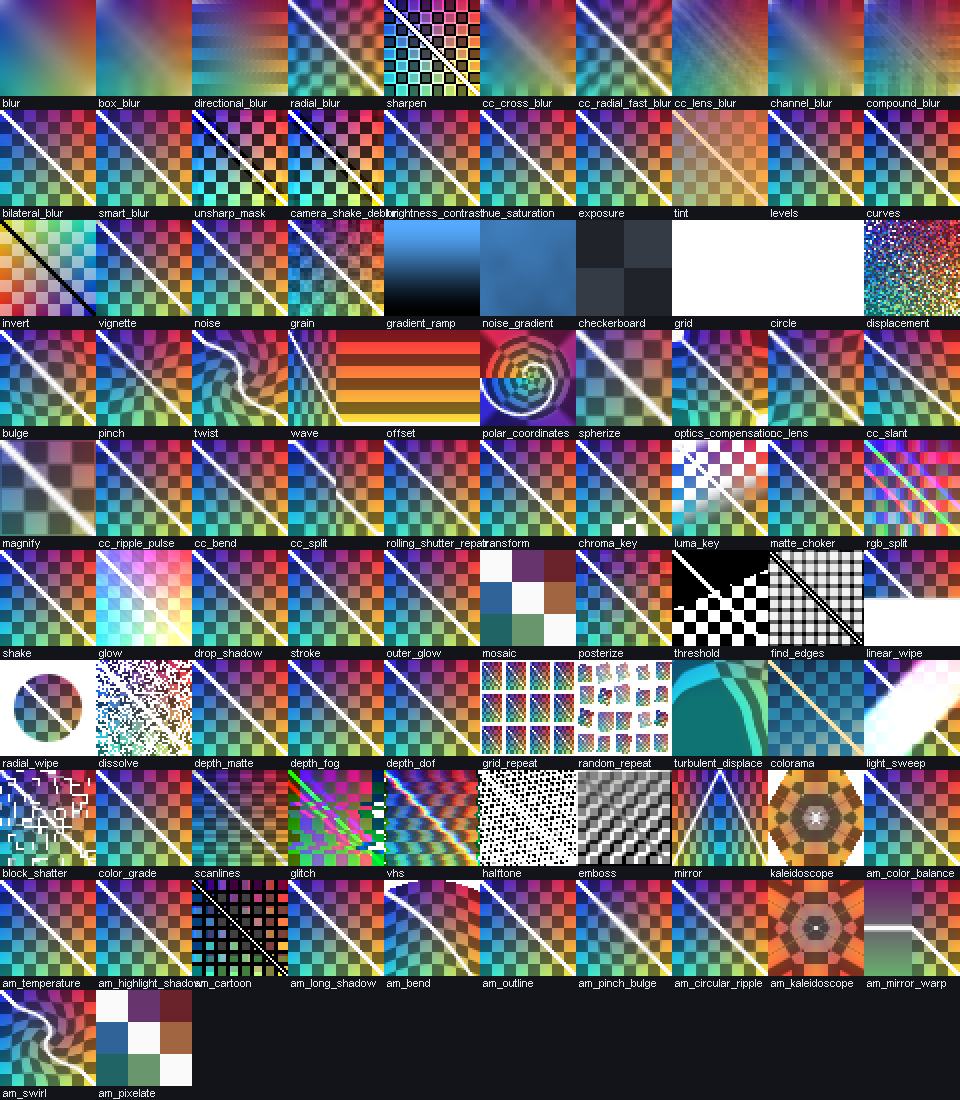
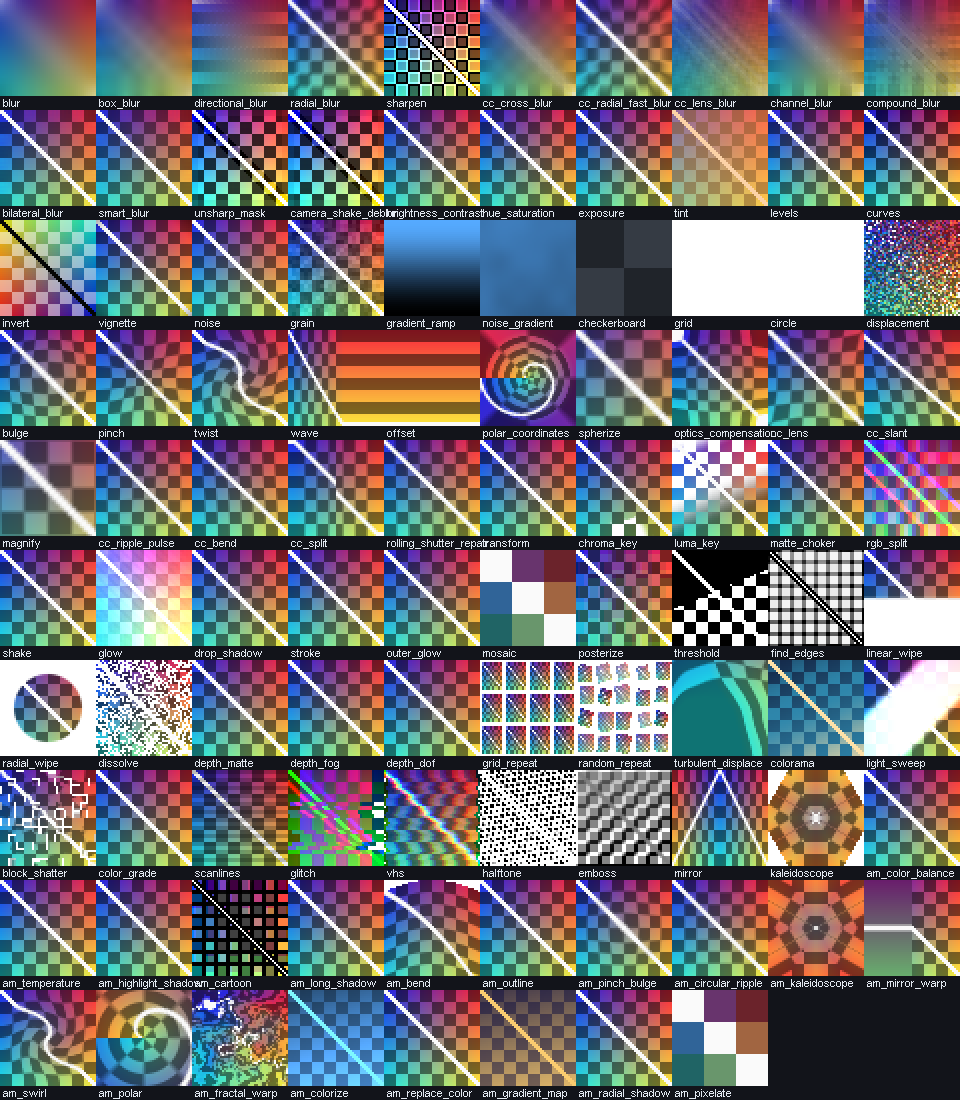
feat(0.27): third effect batch - polar, fractal warp, colour tools
- 极坐标 (polar unwrap/fold with repeat/scale), 分形扭曲 (two-channel fbm displacement in layer
  pixels), 色彩化 (luminance-preserving tint), 替换颜色 (tolerance + softness + replacement),
  渐变映射 (two-colour luminance map), 径向阴影 (alpha projected away from a light point).
- AmEffectRenderer now injects noise/fbm/hash2/rot helpers, so noise-driven definitions need no
  extra Java code.
- Every new effect declares its zero value (amount/strength/size) and is covered by
  ShaderCompileTest (real GL link) and AmEffectLibraryTest (neutrality).
- EffectNeutralTest extended for the batch; full suite 317 tests green.
- Release bbsae-0.27.jar (SHA-256 1FC1D37A04467A8711BC253AE1E321C22A3B404C5AFDCE2889861606BEB9A181).

Changed region(s): [[0.0938, 0.8964, 0.8125, 1.0]]

diff --git a/src/main/java/dev/bbsae/comp/AmEffectLibrary.java b/src/main/java/dev/bbsae/comp/AmEffectLibrary.java
@@ -289,6 +289,111 @@ public final class AmEffectLibrary
             .p("center_x", "中心 X", 0F, 1F, 0.5F, 0.01F)
             .p("center_y", "中心 Y", 0F, 1F, 0.5F, 0.01F));
 
+        add(new AmEffectDef("am_polar", "极坐标", "AM · 变形", """
+            void main()
+            {
+                vec2 center = vec2(u_center_x, u_center_y);
+                vec2 p = (vUv - center) * 2.0;
+                float radius = length(p);
+                float angle = atan(p.y, p.x) + radians(u_angle);
+                vec2 polar = vec2(angle / 6.2831853 * max(u_repeat, 1.0) + 0.5,
+                                  radius * max(u_scale, 0.01));
+                polar = fract(polar);
+                vec2 warped = mix(vUv, polar, clamp(u_amount, 0.0, 1.0));
+                vec4 c = texture(Source, clamp(warped, 0.0, 1.0));
+                fragColor = vec4(c.rgb, c.a);
+            }
+            """, 0.5F, "amount")
+            .p("amount", "强度", 0F, 1F, 1F, 0.01F)
+            .p("angle", "旋转", -180F, 180F, 0F, 1F)
+            .p("scale", "半径缩放", 0.05F, 2F, 0.5F, 0.01F)
+            .p("repeat", "角向重复", 1F, 8F, 1F, 1F)
+            .p("center_x", "中心 X", 0F, 1F, 0.5F, 0.01F)
+            .p("center_y", "中心 Y", 0F, 1F, 0.5F, 0.01F));
+
+        add(new AmEffectDef("am_fractal_warp", "分形扭曲", "AM · 变形", """
+            void main()
+            {
+                vec2 warped = vUv;
+                vec2 noiseUv = vUv * max(u_scale, 0.01) + vec2(u_seed * 7.13);
+                float n1 = fbm(noiseUv, 4) - 0.5;
+                float n2 = fbm(noiseUv + 13.7, 4) - 0.5;
+                warped += vec2(n1, n2) * (u_amount / max(Size, vec2(1.0)));
+                vec4 c = texture(Source, clamp(warped, 0.0, 1.0));
+                fragColor = vec4(c.rgb, c.a);
+            }
+            """, 0.5F, "amount")
+            .p("amount", "强度（像素）", 0F, 400F, 48F, 1F)
+            .p("scale", "细节", 0.5F, 40F, 6F, 0.1F)
+            .p("seed", "随机种子", 0F, 9999F, 0F, 1F));
+
+        add(new AmEffectDef("am_colorize", "色彩化", "AM · 调色", """
+            void main()
+            {
+                vec4 c = texture(Source, vUv);
+                float y = luma(c.rgb);
+                vec3 tinted = u_color.rgb * (0.25 + y * 1.5);
+                fragColor = vec4(clamp(mix(c.rgb, tinted, clamp(u_strength, 0.0, 1.0)), 0.0, 1.0), c.a);
+            }
+            """, 0F, "strength")
+            .p("strength", "强度", 0F, 1F, 1F, 0.01F)
+            .c("color", "颜色", 0xFF4A90D9));
+
+        add(new AmEffectDef("am_replace_color", "替换颜色", "AM · 调色", """
+            void main()
+            {
+                vec4 c = texture(Source, vUv);
+                float distanceToTarget = length(c.rgb - u_target.rgb);
+                float hit = 1.0 - smoothstep(u_tolerance, u_tolerance + max(u_softness, 0.001), distanceToTarget);
+                vec3 rgb = mix(c.rgb, u_replacement.rgb, hit * clamp(u_strength, 0.0, 1.0));
+                fragColor = vec4(clamp(rgb, 0.0, 1.0), c.a);
+            }
+            """, 0F, "strength")
+            .p("tolerance", "容差", 0F, 1F, 0.15F, 0.01F)
+            .p("softness", "柔和度", 0.001F, 0.5F, 0.08F, 0.001F)
+            .p("strength", "强度", 0F, 1F, 1F, 0.01F)
+            .c("target", "目标颜色", 0xFF00FF00)
+            .c("replacement", "替换颜色", 0xFFFF8800));
+
+        add(new AmEffectDef("am_gradient_map", "渐变映射", "AM · 调色", """
+            void main()
+            {
+                vec4 c = texture(Source, vUv);
+                float y = clamp(luma(c.rgb), 0.0, 1.0);
+                vec3 mapped = mix(u_shadow.rgb, u_highlight.rgb, y);
+                vec3 rgb = mix(c.rgb, mapped, clamp(u_amount, 0.0, 1.0));
+                fragColor = vec4(clamp(rgb, 0.0, 1.0), c.a);
+            }
+            """, 0F, "amount")
+            .p("amount", "强度", 0F, 1F, 1F, 0.01F)
+            .c("shadow", "阴影颜色", 0xFF101040)
+            .c("highlight", "高光颜色", 0xFFFFD070));
+
+        add(new AmEffectDef("am_radial_shadow", "径向阴影", "AM · 风格化", """
+            void main()
+            {
+                vec4 c = texture(Source, vUv);
+                vec2 light = vec2(u_light_x, u_light_y);
+                vec2 toPixel = vUv - light;
+                float dist = length(toPixel);
+                vec2 direction = dist > 0.0001 ? toPixel / dist : vec2(0.0);
+                float size = u_size / max(Size.x, Size.y);
+                vec2 shadowUv = clamp(vUv + direction * size, 0.0, 1.0);
+                vec4 shadowSample = texture(Source, shadowUv);
+                float falloff = mix(1.0, clamp(1.0 - dist, 0.0, 1.0), clamp(u_fade, 0.0, 1.0));
+                float alpha = shadowSample.a * clamp(u_alpha, 0.0, 1.0) * falloff;
+                vec3 rgb = mix(u_color.rgb, c.rgb, c.a);
+                float outA = c.a + alpha * (1.0 - c.a);
+                fragColor = vec4(clamp(rgb, 0.0, 1.0), clamp(outA, 0.0, 1.0));
+            }
+            """, 0.5F, "size")
+            .p("size", "距离", 0F, 300F, 30F, 1F)
+            .p("alpha", "不透明度", 0F, 1F, 0.6F, 0.01F)
+            .p("fade", "渐隐", 0F, 1F, 0.5F, 0.01F)
+            .p("light_x", "光源 X", 0F, 1F, 0.2F, 0.01F)
+            .p("light_y", "光源 Y", 0F, 1F, 0.2F, 0.01F)
+            .c("color", "阴影颜色", 0xFF000000));
+
         add(new AmEffectDef("am_pixelate", "像素化", "AM · 变形", """
             void main()
             {

diff --git a/src/main/java/dev/bbsae/client/render/AmEffectRenderer.java b/src/main/java/dev/bbsae/client/render/AmEffectRenderer.java
@@ -160,6 +160,51 @@ public final class AmEffectRenderer
                 return fract(sin(dot(p, vec2(127.1, 311.7))) * 43758.5453);
             }
 
+            vec2 hash2(vec2 p)
+            {
+                p = vec2(dot(p, vec2(127.1, 311.7)), dot(p, vec2(269.5, 183.3)));
+
+                return fract(sin(p) * 43758.5453);
+            }
+
+            float noise(vec2 p)
+            {
+                vec2 i = floor(p);
+                vec2 f = fract(p);
+                f = f * f * (3.0 - 2.0 * f);
+
+                return mix(mix(hash(i), hash(i + vec2(1.0, 0.0)), f.x),
+                           mix(hash(i + vec2(0.0, 1.0)), hash(i + vec2(1.0, 1.0)), f.x), f.y);
+            }
+
+            float fbm(vec2 p, int octaves)
+            {
+                float value = 0.0;
+                float amplitude = 0.5;
+
+                for (int i = 0; i < 6; i++)
+                {
+                    if (i >= octaves)
+                    {
+                        break;
+                    }
+
+                    value += noise(p) * amplitude;
+                    p *= 2.03;
+                    amplitude *= 0.5;
+                }
+
+                return value;
+            }
+
+            mat2 rot(float a)
+            {
+                float s = sin(a);
+                float c = cos(a);
+
+                return mat2(c, s, -s, c);
+            }
+
             vec2 layerUv(vec2 uv)
             {
                 return vec2(dot(LayerU.xy, uv) + LayerU.z, dot(LayerV.xy, uv) + LayerV.z);

diff --git a/src/test/java/dev/bbsae/comp/AmEffectLibraryTest.java b/src/test/java/dev/bbsae/comp/AmEffectLibraryTest.java
@@ -37,7 +37,7 @@ public class AmEffectLibraryTest
             assertTrue(definition.body.contains("fragColor"), "body writes no colour: " + definition.id);
         }
 
-        assertTrue(ids.size() >= 13, "the distort batch should have grown the catalogue");
+        assertTrue(ids.size() >= 19, "the catalogue should have grown with the third batch");
     }
 
     @Test
@@ -70,6 +70,12 @@ public class AmEffectLibraryTest
         assertNeutral("am_circular_ripple", "strength", 0F);
         assertNeutral("am_swirl", "angle", 0F);
         assertNeutral("am_mirror_warp", "strength", 0F);
+        assertNeutral("am_polar", "amount", 0F);
+        assertNeutral("am_fractal_warp", "amount", 0F);
+        assertNeutral("am_colorize", "strength", 0F);
+        assertNeutral("am_replace_color", "strength", 0F);
+        assertNeutral("am_gradient_map", "amount", 0F);
+        assertNeutral("am_radial_shadow", "size", 0F);
 
         CompEffect balance = CompEffectRegistry.create("am_color_balance", 1);
 

diff --git a/docs/EFFECT-LIBRARY-PLAN.zh.md b/docs/EFFECT-LIBRARY-PLAN.zh.md
@@ -45,9 +45,9 @@
 新增三层，效果不再需要写进 `EffectRenderer` 的巨型 switch：
 
 - `comp/AmEffectDef`：id、显示名、分类、参数表（float/color）、`main()` 片段、零点参数。
-- `comp/AmEffectLibrary`：13 个效果的定义（色彩平衡、色温、高光与阴影、卡通、长阴影、
-  弯曲、描边、收缩与膨胀、圆形波纹、万花筒、镜像、旋转扭曲、像素化），参数名/范围/默认值与
-  参考应用一致。
+- `comp/AmEffectLibrary`：19 个效果的定义（色彩平衡、色温、高光与阴影、卡通、长阴影、
+  弯曲、描边、收缩与膨胀、圆形波纹、万花筒、镜像、旋转扭曲、像素化、极坐标、分形扭曲、
+  色彩化、替换颜色、渐变映射、径向阴影），参数名/范围/默认值与参考应用一致。
 - `client/render/AmEffectRenderer`：按定义拼装完整 fragment（标准 uniform + 参数 uniform +
   共享 `luma/rgb2hsv/hsv2rgb/hash`），懒编译并缓存；`sources()` 供无头编译测试逐条验证。
 - `CompEffectRegistry` 在启动时把定义复制成普通条目，因此效果库、参数滑杆、颜色选择器、
@@ -136,8 +136,10 @@ switch 中拆出来：
 3. **模糊**：box/gaussian/directional/lens/radial/motion/chromatic/mask blur（复用已有两次
    ping-pong 模糊骨架，按 AM 的半径/质量参数暴露）
 4. **调色**：brightness/contrast、exposure、hue/sat、color balance、temperature、levels、
-   curves、posterize、threshold、gradient map、duotone/palette、long shadow、glow/shadow 家族
+   curves、posterize、threshold、gradient map（已完成）、colorize（已完成）、replace color
+   （已完成）、duotone/palette、glow/shadow 家族（径向阴影已完成）
 4.5 **零点审计与图标**（已完成；见 2.3 / 2.4）
+4.6 **第三批**（极坐标、分形扭曲、色彩化、替换颜色、渐变映射、径向阴影；已完成）
 5. **生成/风格化**：checker、grid、stripes、starfield、clouds、halftone、scanline、noise grain
    （噪点与颗粒按要求保持现状）
 6. **3D 与文字**：s3d-* 形状与 text 效果（依赖 3D 管线，放到最后一批）

diff --git a/README.md b/README.md
@@ -110,15 +110,15 @@ export** without touching the `.dat` film format.
 
 ## Download / Install
 
-1. Download [`bbsae-0.26.jar`](https://github.com/zhongend/bbsae/releases/download/v0.26/bbsae-0.26.jar)
-   from the **v0.26** release (the asset is updated with each source push).
+1. Download [`bbsae-0.27.jar`](https://github.com/zhongend/bbsae/releases/download/v0.27/bbsae-0.27.jar)
+   from the **v0.27** release (the asset is updated with each source push).
 2. Install **Minecraft 1.20.1**, **Fabric Loader 0.16.14+**, **Fabric API 0.92.1+1.20.1** and
    **BBS FS 2.7-1.20.1**.
-3. Put `bbsae-0.26.jar` and the BBS FS jar into the game's `mods/` folder.
+3. Put `bbsae-0.27.jar` and the BBS FS jar into the game's `mods/` folder.
 4. Launch the game, open a film in BBS, select a replay, then use
    **Replay properties → Compositor → Open Film Compositor**.
 
[2 lines of base64/hex data omitted]
 
 ## Gallery
 
@@ -185,6 +185,16 @@ The compositor does not re-encode films or patch `.dat` files. BBS serializes a 
 `RegisterFrameOverlaysEvent` point. That means the same composition appears in BBS's preview and in
 its FFmpeg film export, and BBS keeps ownership of keyframes, undo, project storage and video
 encoding.
+
+## What's new in 0.27 — third effect batch (polar, fractal warp, colour tools)
+
+- **Six more reference-compatible effects**: 极坐标、分形扭曲、色彩化、替换颜色、渐变映射、径向阴影.
+- Shared shader helpers grew the noise/fbm/rotation set, so noise-driven effects are plain
+  definitions from now on.
+- All new effects carry their zero-value declaration (strength/amount/size) and are covered by
+  the shader link test and the neutrality test.
+- 317 tests green; effect contact sheet (`docs/verify/effect-pipeline.png`) now renders every
+  batch through the real composition pipeline.
 
 ## What's new in 0.26 — distort batch, zero-value audit, library icons
 
